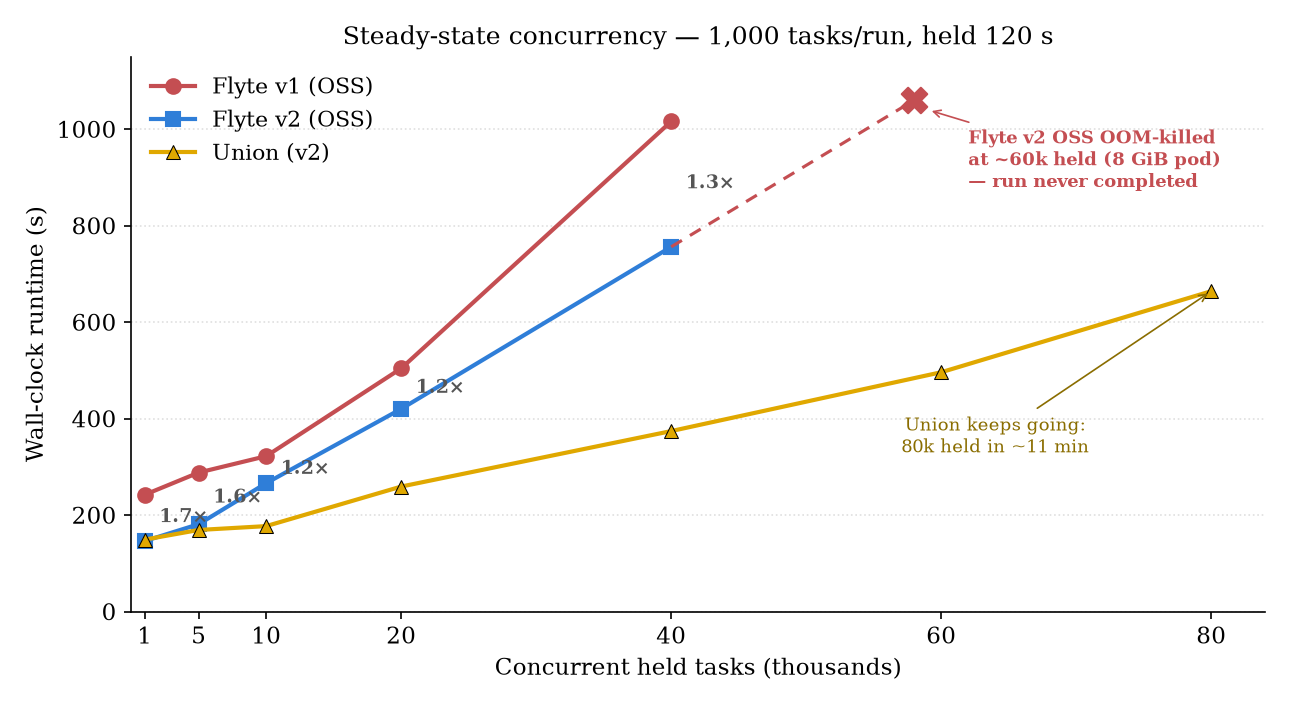
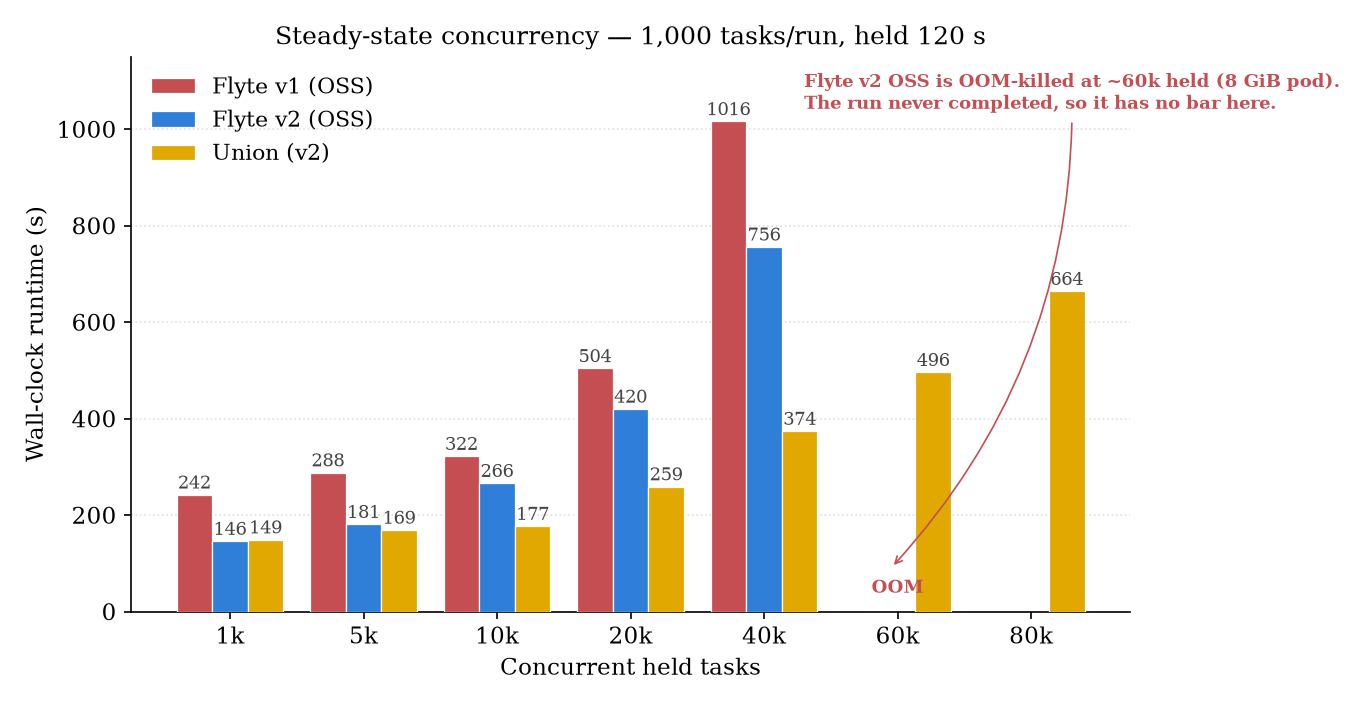
Charts: lines -> grouped bars
Every x value is a discrete sweep point, not a continuum, so bars are the
honest encoding — and on the long-chain figure the two lines sat exactly on
top of each other, which read as one plane rather than two that agree.

A plane that OOM-killed now gets no bar at that scale, labelled "OOM"
instead: the dashed rise to an X the line charts used still implied a
completion time that was never measured.

diff --git a/charts/make_charts.py b/charts/make_charts.py
@@ -9,56 +9,72 @@
 Every value below is a measurement from the runs recorded in
 `flyte-benchmark/skills/flyte-benchmark/reference_results.md` — core-sleep leaves
 (no task pods), identical 8 GiB orchestration pods for Flyte v1 and Flyte v2
-(OSS). Nothing here is extrapolated: where a plane OOM-killed, the series stops
-and the point is marked.
+(OSS). Nothing here is extrapolated: a plane that OOM-killed gets no bar at that
+scale, marked "OOM" instead, because it never produced a completion time.
 """
 import matplotlib
 
 matplotlib.use("Agg")
 import matplotlib.pyplot as plt  # noqa: E402
+import numpy as np  # noqa: E402
 
 plt.rcParams.update({"font.family": "serif", "font.size": 11})
 
 V1, V2, UN, BAD = "#c44e52", "#2f7ed8", "#e0a800", "#c44e52"
 
 
+def bars(ax, cats, series, fmt="{:.0f}", label_size=8.5):
+    """Grouped bars. `series` is [(label, values, color)]; a None value = no data."""
+    x = np.arange(len(cats))
+    width = 0.8 / len(series)
+    offset = -0.4 + width / 2
+    for label, values, color in series:
+        xs = [x[i] + offset for i, v in enumerate(values) if v is not None]
+        ys = [v for v in values if v is not None]
+        ax.bar(xs, ys, width, label=label, color=color,
+               edgecolor="white", linewidth=.6, zorder=3)
+        for xi, y in zip(xs, ys):
+            ax.annotate(fmt.format(y), (xi, y), textcoords="offset points",
+                        xytext=(0, 3), ha="center", fontsize=label_size, color="#444")
+        offset += width
+    ax.set_xticks(x)
+    ax.set_xticklabels(cats)
+    ax.spines[["top", "right"]].set_visible(False)
+    ax.grid(axis="y", ls=":", alpha=.4, zorder=0)
+    return x, width
+
+
+def oom_marker(ax, xpos, text="OOM"):
+    """Mark a slot where a plane died instead of finishing — no bar, no height."""
+    ax.annotate(text, (xpos, 0), textcoords="offset points", xytext=(0, 9),
+                ha="center", fontsize=8.5, color=BAD, fontweight="bold")
+
+
 def concurrency():
     """The one shape measured on all three planes: K runs x 1,000 tasks held 120 s."""
-    x = [1, 5, 10, 20, 40]
-    v1 = [242, 288, 322, 504, 1016]                    # Flyte v1 (flytepropeller)
-    v2 = [146, 181, 266, 420, 756]                     # Flyte v2 OSS (single executor pod)
-    un_x = [1, 5, 10, 20, 40, 60, 80]
-    un = [149, 169, 177, 259, 374, 496, 664]           # Union (v2 plane, scaled out)
+    cats = ["1k", "5k", "10k", "20k", "40k", "60k", "80k"]
+    v1 = [242, 288, 322, 504, 1016, None, None]
+    v2 = [146, 181, 266, 420, 756, None, None]     # OOM-killed at 60k
+    un = [149, 169, 177, 259, 374, 496, 664]
 
-    fig, ax = plt.subplots(figsize=(8.6, 4.7))
-    ax.plot(x, v1, "-o", color=V1, lw=2, ms=7, label="Flyte v1 (OSS)")
-    ax.plot(x, v2, "-s", color=V2, lw=2, ms=7, label="Flyte v2 (OSS)")
-    ax.plot(un_x, un, "-^", color=UN, lw=2, ms=7, markeredgecolor="black",
-            markeredgewidth=.5, label="Union (v2)")
+    fig, ax = plt.subplots(figsize=(9.0, 4.7))
+    x, width = bars(ax, cats, [("Flyte v1 (OSS)", v1, V1),
+                               ("Flyte v2 (OSS)", v2, V2),
+                               ("Union (v2)", un, UN)])
 
-    for xk, a, b in zip(x, v1, v2):                    # v1/v2 speedup at each point
-        ax.annotate(f"{a / b:.1f}×", (xk, (a + b) / 2), textcoords="offset points",
-                    xytext=(7, -2), fontsize=9, color="#555", fontweight="bold")
+    oom_marker(ax, x[5])                            # v2's slot at 60k
+    ax.annotate("Flyte v2 OSS is OOM-killed at ~60k held (8 GiB pod).\n"
+                "The run never completed, so it has no bar here.",
+                xy=(x[5] - 0.05, 90), xytext=(x[4] + 0.3, 1120), fontsize=8.5,
+                color=BAD, fontweight="bold", ha="left", va="top",
+                arrowprops=dict(arrowstyle="->", color=BAD, lw=.8,
+                                connectionstyle="arc3,rad=-0.2"))
 
-    # OSS never finished 60k held — dashed rise to an X means "no completion time".
-    ax.plot([40, 58], [756, 1060], ls=(0, (4, 3)), color=BAD, lw=1.5)
-    ax.scatter([58], [1060], marker="X", s=150, color=BAD, zorder=6)
-    ax.annotate("Flyte v2 OSS OOM-killed\nat ~60k held (8 GiB pod)\n— run never completed",
-                xy=(59, 1040), xytext=(62, 880), fontsize=8.5, color=BAD, fontweight="bold",
-                ha="left", arrowprops=dict(arrowstyle="->", color=BAD, lw=.8))
-    ax.annotate("Union keeps going:\n80k held in ~11 min", xy=(80, 664), xytext=(64, 330),
-                fontsize=8.5, color="#8a6d00", ha="center",
-                arrowprops=dict(arrowstyle="->", color="#8a6d00", lw=.8))
-
-    ax.set_xlabel("Concurrent held tasks (thousands)")
+    ax.set_xlabel("Concurrent held tasks")
     ax.set_ylabel("Wall-clock runtime (s)")
     ax.set_title("Steady-state concurrency — 1,000 tasks/run, held 120 s", fontsize=12)
-    ax.set_xlim(0, 84)
     ax.set_ylim(0, 1150)
-    ax.set_xticks(un_x)
     ax.legend(loc="upper left", frameon=False, fontsize=10.5)
-    ax.spines[["top", "right"]].set_visible(False)
-    ax.grid(axis="y", ls=":", alpha=.4)
     fig.tight_layout()
     fig.savefig("charts/concurrency.png", dpi=150)
     print("wrote charts/concurrency.png")
@@ -66,39 +82,30 @@ def concurrency():
 
 def single_workflow():
     """v1 vs v2 on single-run shapes — where v1's one-CRD-per-run design shows up."""
-    fig, ax = plt.subplots(1, 2, figsize=(9.2, 3.9))
+    fig, ax = plt.subplots(1, 2, figsize=(9.6, 4.0))
 
-    a = ax[0]                                          # fan-out runtime
-    k = [1, 2, 3, 4, 5, 6]
-    a.plot(k, [124, 213, 350, 444, 579, 717], "-o", color=V1, lw=2, label="Flyte v1")
-    a.plot(k, [29, 40, 55, 84, 100, 115], "-s", color=V2, lw=2, label="Flyte v2")
-    a.annotate("6.2× faster", (6, 115), textcoords="offset points", xytext=(-6, 16),
-               ha="right", color=V2, fontsize=9.5, fontweight="bold")
+    a = ax[0]                                       # fan-out runtime
+    bars(a, ["1k", "2k", "3k", "4k", "5k", "6k"],
+         [("Flyte v1", [124, 213, 350, 444, 579, 717], V1),
+          ("Flyte v2", [29, 40, 55, 84, 100, 115], V2)], label_size=7.5)
     a.set_title("Wide fan-out — runtime", fontweight="bold")
-    a.set_xlabel("Leaves in one run (thousands)")
+    a.set_xlabel("Leaves in one run")
     a.set_ylabel("Wall-clock (s)")
-    a.set_xticks(k)
-    a.set_xticklabels([f"{i}k" for i in k])
-    a.set_ylim(0, 780)
+    a.set_ylim(0, 830)
+    a.annotate("v2 is 4–6× faster\nacross the range", (-0.4, 540), fontsize=9,
+               color=V2, fontweight="bold", ha="left", va="top")
     a.legend(frameon=False, loc="upper left")
 
-    b = ax[1]                                          # long-chain memory
-    n = [100, 300, 500]
-    b.plot(n, [1272, 1410, 1589], "-o", color=V1, lw=2, label="Flyte v1")
-    b.plot(n, [298, 317, 327], "-s", color=V2, lw=2, label="Flyte v2")
-    for xx, yy, c, dy in [(500, 1589, V1, 9), (500, 327, V2, -16)]:
-        b.annotate(f"{yy} MiB", (xx, yy), textcoords="offset points", xytext=(-4, dy),
-                   ha="right", color=c, fontsize=9)
+    b = ax[1]                                       # long-chain memory
+    bars(b, ["100", "300", "500"],
+         [("Flyte v1", [1272, 1410, 1589], V1),
+          ("Flyte v2", [298, 317, 327], V2)])
     b.set_title("Long chain — control-plane memory", fontweight="bold")
     b.set_xlabel("Chain length (nodes)")
     b.set_ylabel("Peak memory (MiB)")
-    b.set_xticks(n)
-    b.set_ylim(0, 1800)
-    b.legend(frameon=False, loc="center left")
+    b.set_ylim(0, 1850)
+    b.legend(frameon=False, loc="upper left")
 
-    for p in ax:
-        p.spines[["top", "right"]].set_visible(False)
-        p.grid(axis="y", ls=":", alpha=.4)
     fig.suptitle("Single-run shapes: v1 holds the whole run in one workflow CRD; "
                  "v2 splits it into per-action CRDs", fontsize=9.5, color="#555", y=1.02)
     fig.tight_layout()
@@ -109,36 +116,25 @@ def single_workflow():
 def long_chain():
     """OSS v2 vs Union on a sequential chain (re-run 2026-07-24, same driver/day).
 
-    Newer builds than the v1-vs-v2 rows in panel B of single_workflow() — don't
-    read the two figures against each other.
+    Newer builds than the v1-vs-v2 numbers in single_workflow() — don't read the
+    two figures against each other.
     """
-    n = [100, 300, 500]
-    oss = [18.9, 53.4, 83.5]                           # execution seconds, submit excluded
-    union = [19.0, 53.5, 83.7]
+    fig, ax = plt.subplots(figsize=(7.0, 4.4))
+    bars(ax, ["100", "300", "500"],
+         [("Flyte v2 (OSS)", [18.9, 53.4, 83.5], V2),
+          ("Union (v2)", [19.0, 53.5, 83.7], UN)], fmt="{:.1f} s")
 
-    fig, ax = plt.subplots(figsize=(6.8, 4.2))
-    ax.plot(n, oss, "-s", color=V2, lw=2.5, ms=9, label="Flyte v2 (OSS)")
-    ax.plot(n, union, "--^", color=UN, lw=2, ms=8, markeredgecolor="black",
-            markeredgewidth=.5, label="Union (v2)")
-    for x, y in zip(n, oss):
-        ax.annotate(f"{y:.0f} s", (x, y), textcoords="offset points", xytext=(0, -17),
-                    ha="center", fontsize=9, color="#444")
-
-    ax.annotate("The two planes overlap. A chain runs one\n"
-                "action at a time, so a scaled-out plane has\n"
-                "nothing to parallelize: runtime = length ×\n"
-                "per-transition latency (~0.17 s/node).",
-                xy=(215, 8), fontsize=9, color="#555")
+    ax.annotate("The two planes are within 0.2 s at every length.\n"
+                "A chain runs one action at a time, so a scaled-out\n"
+                "plane has nothing to parallelize: runtime is just\n"
+                "length × per-transition latency (~0.17 s/node).",
+                xy=(-0.42, 62), fontsize=9, color="#555")
 
     ax.set_xlabel("Chain length (nodes)")
     ax.set_ylabel("Execution time (s)")
     ax.set_title("Long chain — where scale-out does NOT help", fontsize=12)
-    ax.set_xticks(n)
-    ax.set_xlim(60, 540)
     ax.set_ylim(0, 100)
     ax.legend(loc="upper left", frameon=False, fontsize=10.5)
-    ax.spines[["top", "right"]].set_visible(False)
-    ax.grid(axis="y", ls=":", alpha=.4)
     fig.tight_layout()
     fig.savefig("charts/long_chain.png", dpi=150)
     print("wrote charts/long_chain.png")
@@ -146,36 +142,27 @@ def long_chain():
 
 def swarm():
     """The scale test: K independent runs x 2,000 leaves, up to 200k actions."""
-    oss_x = [4, 10, 20, 50, 100]                       # thousands of actions
-    oss_y = [102, 229, 440, 1333, 3617]                # K=50 finished 48/50
-    un_x = [4, 10, 20, 50, 100, 200]
-    un_y = [59, 123, 185, 418, 772, 1533]
+    cats = ["4k", "10k", "20k", "50k", "100k", "200k"]
+    oss = [102, 229, 440, 1333, 3617, None]         # OOM-killed at 200k
+    un = [59, 123, 185, 418, 772, 1533]
 
-    fig, ax = plt.subplots(figsize=(8.6, 4.5))
-    ax.plot(oss_x, oss_y, "-s", color=V2, lw=2, ms=7, label="Flyte v2 (OSS, one 8 GiB pod)")
-    ax.plot(un_x, un_y, "-^", color=UN, lw=2, ms=7, markeredgecolor="black",
-            markeredgewidth=.5, label="Union (v2, scaled out)")
+    fig, ax = plt.subplots(figsize=(8.6, 4.6))
+    x, _ = bars(ax, cats, [("Flyte v2 (OSS, one 8 GiB pod)", oss, V2),
+                           ("Union (v2, scaled out)", un, UN)])
 
-    # OSS never finished 200k — dashed rise to an X means "no completion time".
-    ax.plot([100, 195], [3617, 3980], ls=(0, (4, 3)), color=BAD, lw=1.5)
-    ax.scatter([195], [3980], marker="X", s=170, color=BAD, zorder=6)
-    ax.annotate("OSS OOM-killed at 200k — peak 8.1 GiB.\nExecutor memory tracks CUMULATIVE\nactions (~54 MiB / 1,000).",
-                xy=(190, 3900), xytext=(96, 2750), fontsize=8.5, color=BAD,
-                fontweight="bold", ha="left",
-                arrowprops=dict(arrowstyle="->", color=BAD, lw=.8))
-    ax.annotate("Union completes 200k\nin ~26 min (100/100 runs)", xy=(200, 1533),
-                xytext=(140, 650), fontsize=9, color="#8a6d00", ha="center",
-                arrowprops=dict(arrowstyle="->", color="#8a6d00", lw=.8))
+    oom_marker(ax, x[5] - 0.2)
+    ax.annotate("OSS is OOM-killed at 200k — peak 8.1 GiB. Executor memory\n"
+                "tracks CUMULATIVE actions (~54 MiB / 1,000), so it has no bar here.",
+                xy=(x[5] - 0.25, 250), xytext=(x[0] - 0.35, 3150), fontsize=8.5,
+                color=BAD, fontweight="bold", ha="left", va="top",
+                arrowprops=dict(arrowstyle="->", color=BAD, lw=.8,
+                                connectionstyle="arc3,rad=-0.25"))
 
-    ax.set_xlabel("Total actions in flight (thousands)")
+    ax.set_xlabel("Total actions in flight")
     ax.set_ylabel("Wall-clock runtime (s)")
     ax.set_title("Swarm scale test — K runs × 2,000 leaves", fontsize=12)
-    ax.set_xticks(un_x)
-    ax.set_xlim(0, 215)
     ax.set_ylim(0, 4100)
     ax.legend(loc="upper left", frameon=False, fontsize=10.5)
-    ax.spines[["top", "right"]].set_visible(False)
-    ax.grid(axis="y", ls=":", alpha=.4)
     fig.tight_layout()
     fig.savefig("charts/swarm.png", dpi=150)
     print("wrote charts/swarm.png")

diff --git a/README.md b/README.md
@@ -62,8 +62,8 @@ regenerate the charts with `uv run charts/make_charts.py` from the repo root.
 
 **Steady-state concurrency** — the one shape run on all three planes. v2 is
 1.2–1.7× faster than v1 across the range; both OSS planes are bounded by a single
-pod's memory, and the OSS v2 executor is OOM-killed at ~60k held tasks. Union runs
-the same v2 plane scaled out and keeps going to 80k.
+pod's memory, and the OSS v2 executor is OOM-killed at ~60k held tasks (no bar —
+the run never finished). Union runs the same v2 plane scaled out and reaches 80k.
 
 ![Concurrency runtime — Flyte v1 vs Flyte v2 (OSS) vs Union](charts/concurrency.png)
 
@@ -82,8 +82,8 @@ scaled-out plane to parallelize — runtime is just length × per-transition lat
 ![Long chain — OSS v2 vs Union, indistinguishable](charts/long_chain.png)
 
 **Swarm scale test** — K independent runs × 2,000 leaves. OSS executor memory
-tracks *cumulative* actions (~54 MiB per 1,000), so an 8 GiB pod dies around 150k;
-the 200k run never finished. Union holds action state in a distributed store and
+tracks *cumulative* actions (~54 MiB per 1,000), so an 8 GiB pod dies around 150k
+and the 200k run has no bar — it never finished. Union holds action state in a distributed store and
 completes all 100 runs.
 
 ![Swarm scale test — OSS v2 vs Union](charts/swarm.png)
